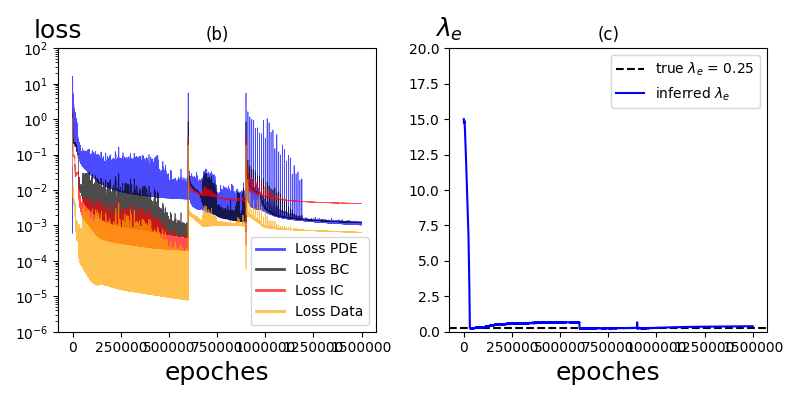
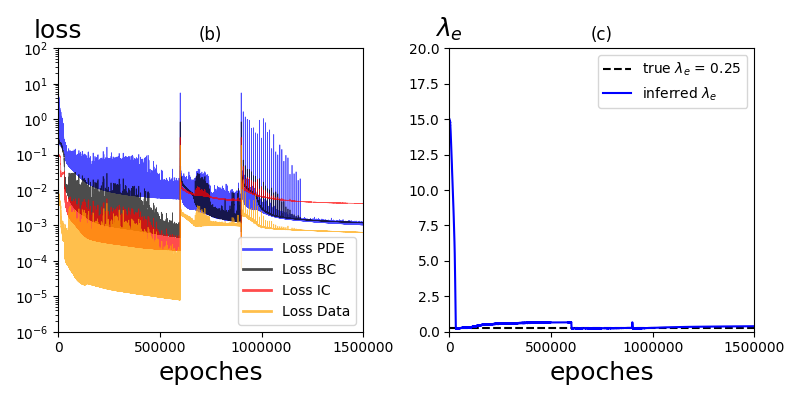
.

diff --git a/Thrombus/Plot/training_loss/plot_his_mem.py b/Thrombus/Plot/training_loss/plot_his_mem.py
@@ -20,8 +20,8 @@ def main():
     ax1.set_xlabel('epoches', fontsize=18)
     ax1.set_ylabel('loss', fontsize=18, rotation="horizontal")
     ax1.set_ylim([1e-6, 1e2])
-    # ax1.set_xlim([0, 900000])
-    # ax1.set_xticks(np.linspace(0, 900000, 4))
+    ax1.set_xlim([0, 1500000])
+    ax1.set_xticks(np.linspace(0, 1500000, 4))
     ax1.set_title('(b)')
     ax1.yaxis.set_label_coords(0.0,1.02)
     leg = ax1.legend()
@@ -35,9 +35,9 @@ def main():
     ax2.plot(lmd, label='inferred $\lambda_{e}$', color='blue')
     ax2.set_xlabel('epoches', fontsize=18)
     ax2.set_ylabel('$\lambda_{e}$', fontsize=18, rotation="horizontal")
-    # ax2.set_xlim([0, 900000])
+    ax2.set_xlim([0, 1500000])
     ax2.set_ylim([0, 20])
-    # ax2.set_xticks(np.linspace(0, 900000, 4))
+    ax2.set_xticks(np.linspace(0, 1500000, 4))
     ax2.set_title('(c)')
     ax2.legend()
     ax2.yaxis.set_label_coords(0.0,1.02)
